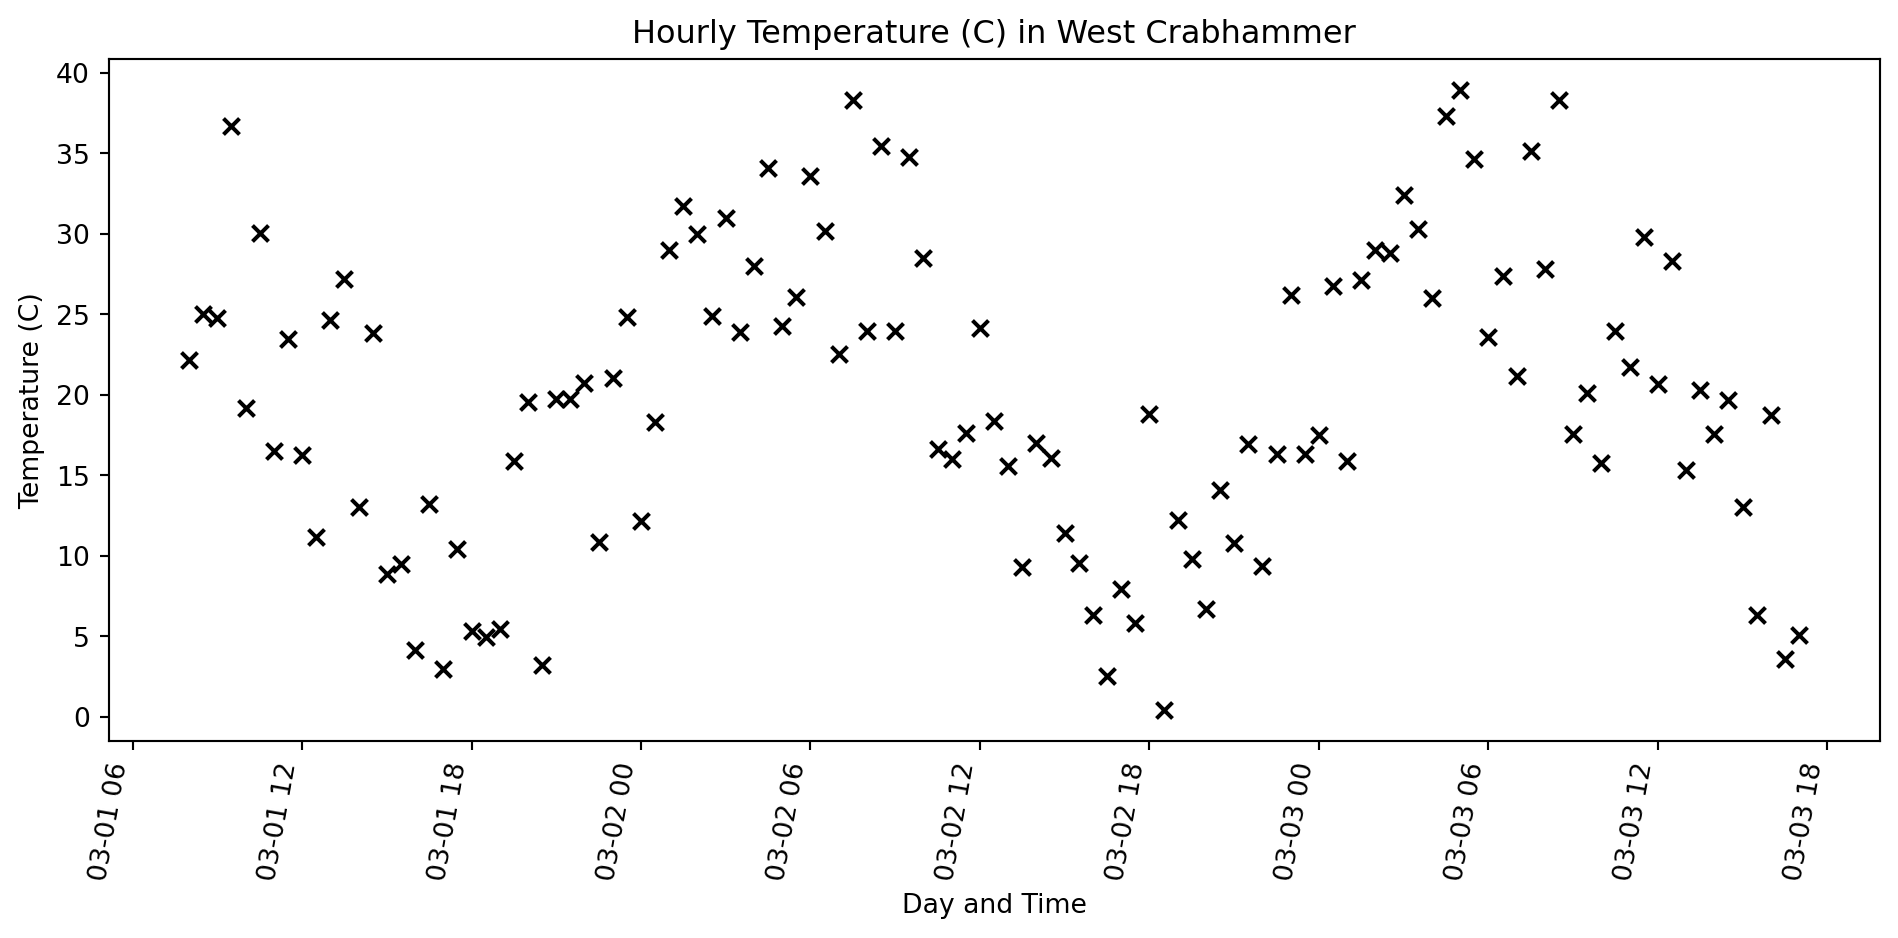
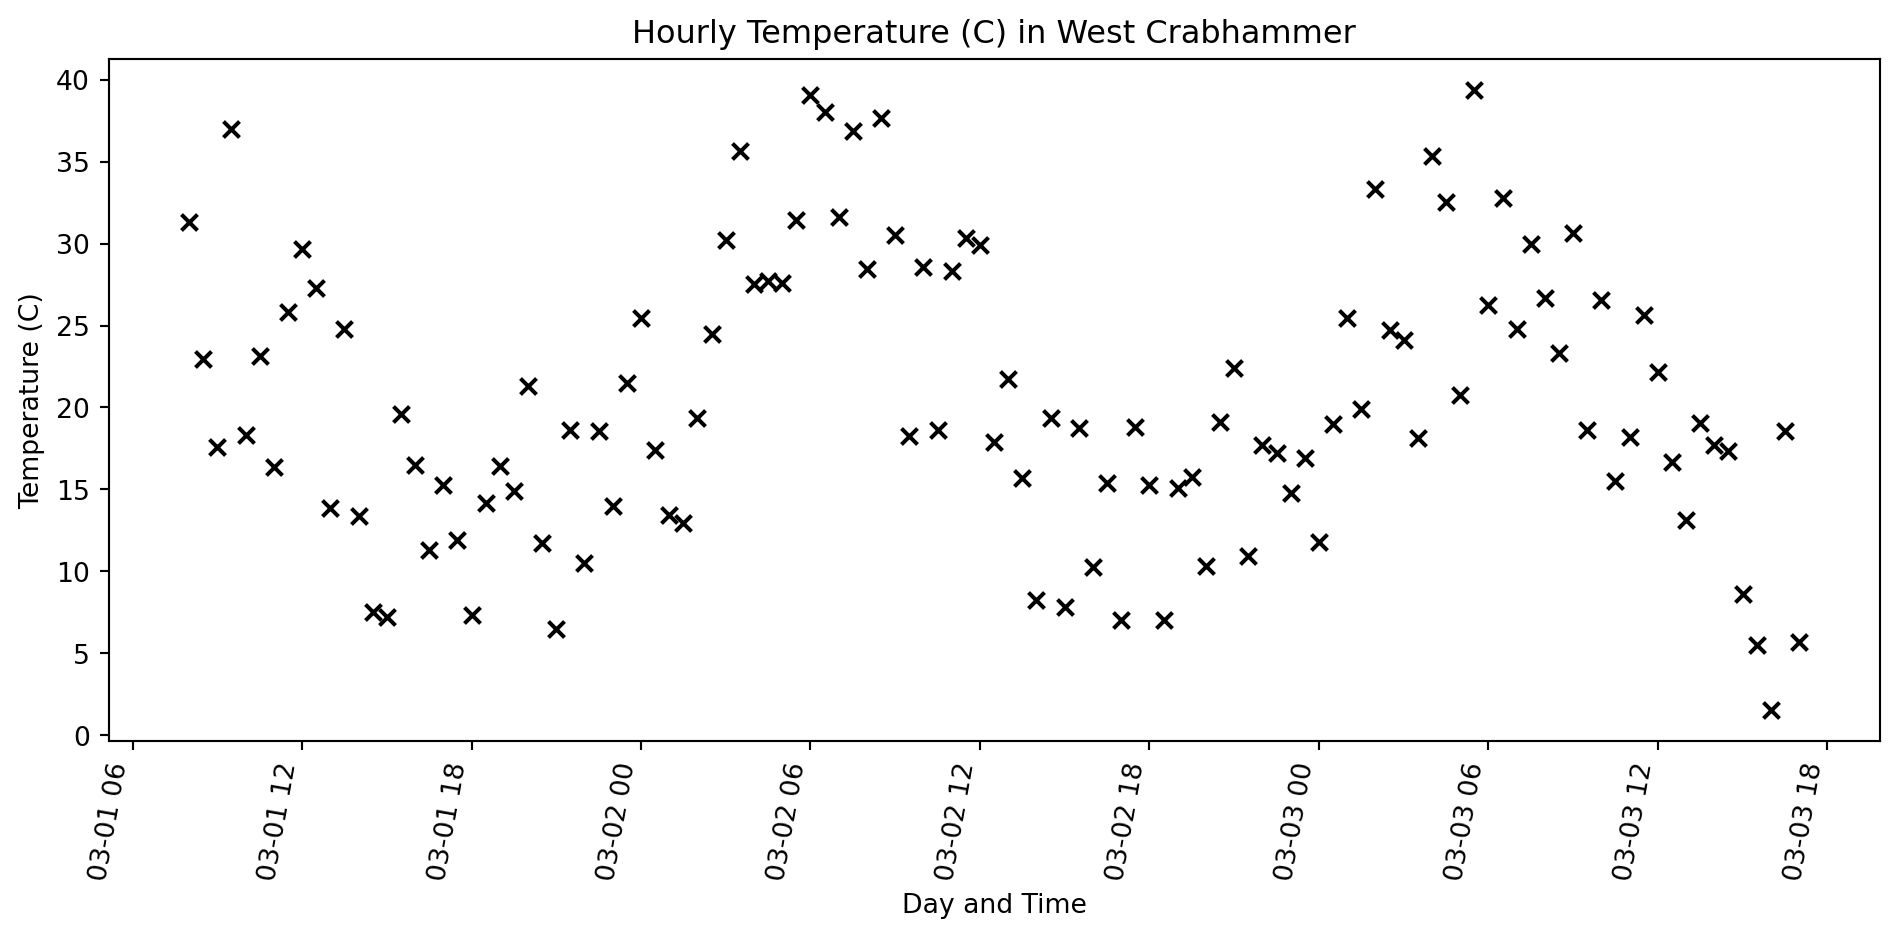
changed

diff --git a/docs/python_geospatial_basics.html b/docs/python_geospatial_basics.html
@@ -293,7 +293,7 @@
 <section id="basic-numbers" class="slide level2">
 <h2>Basic Numbers</h2>
 <p>Floats and Ints don’t do anything all that surprising</p>
-<div id="f9ef00de" class="cell columns column-output-location" data-execution_count="1">
+<div id="b2d3a6a0" class="cell columns column-output-location" data-execution_count="1">
 <div class="column">
 <div class="sourceCode cell-code" id="cb5"><pre class="sourceCode numberSource python number-lines code-with-copy"><code class="sourceCode python"><span id="cb5-1"><a></a>a <span class="op">=</span> <span class="dv">2</span> <span class="op">+</span> <span class="dv">2</span></span>
 <span id="cb5-2"><a></a>b <span class="op">=</span> <span class="fl">2.0</span> <span class="op">+</span> <span class="fl">2.0</span></span>
@@ -320,7 +320,7 @@ but 5 // 4 is 1</code></pre>
 <section id="sequences" class="slide level2">
 <h2>Sequences</h2>
 <p>Lists, tuples, and strings ae all sequences</p>
-<div id="6b4aee5c" class="cell columns column-output-location" data-execution_count="2">
+<div id="8325d239" class="cell columns column-output-location" data-execution_count="2">
 <div class="column">
 <div class="sourceCode cell-code" id="cb7"><pre class="sourceCode numberSource python number-lines code-with-copy"><code class="sourceCode python"><span id="cb7-1"><a></a><span class="co"># a list</span></span>
 <span id="cb7-2"><a></a>a_list <span class="op">=</span> [<span class="dv">1</span>, <span class="dv">2</span>, <span class="dv">3</span>, <span class="dv">4</span>, <span class="dv">5</span>, <span class="dv">6</span>, <span class="dv">7</span>, <span class="dv">8</span>, <span class="dv">9</span>]</span>
@@ -367,7 +367,7 @@ neushorn?</code></pre>
 </section>
 <section id="dictionaries" class="slide level2">
 <h2>Dictionaries</h2>
-<div id="d372ac6c" class="cell columns column-output-location" data-execution_count="3">
+<div id="218a4e12" class="cell columns column-output-location" data-execution_count="3">
 <div class="column">
 <div class="sourceCode cell-code" id="cb9"><pre class="sourceCode numberSource python number-lines code-with-copy"><code class="sourceCode python"><span id="cb9-1"><a></a>pets <span class="op">=</span> {<span class="st">'honden'</span>: <span class="dv">26</span>, <span class="st">'katten'</span>: <span class="dv">100</span>}</span>
 <span id="cb9-2"><a></a></span>
@@ -386,7 +386,7 @@ neushorn?</code></pre>
 </section>
 <section id="iterating" class="slide level2">
 <h2>Iterating</h2>
-<div id="aa64cc53" class="cell columns column-output-location" data-execution_count="4">
+<div id="63a83ed4" class="cell columns column-output-location" data-execution_count="4">
 <div class="column">
 <div class="sourceCode cell-code" id="cb11"><pre class="sourceCode numberSource python number-lines code-with-copy"><code class="sourceCode python"><span id="cb11-1"><a></a>a <span class="op">=</span> [<span class="dv">1</span>, <span class="dv">2</span>, <span class="dv">3</span>, <span class="dv">4</span>, <span class="dv">5</span>, <span class="dv">6</span>, <span class="dv">7</span>, <span class="dv">8</span>, <span class="dv">9</span>]</span>
 <span id="cb11-2"><a></a></span>
@@ -414,7 +414,7 @@ is the same as
 </section>
 <section id="pandas-dataframe" class="slide level2 scrollable">
 <h2>Pandas DataFrame</h2>
-<div id="040d699c" class="cell columns column-output-location" data-execution_count="5">
+<div id="77fd069c" class="cell columns column-output-location" data-execution_count="5">
 <div class="column">
 <div class="sourceCode cell-code" id="cb13"><pre class="sourceCode numberSource python number-lines code-with-copy"><code class="sourceCode python"><span id="cb13-1"><a></a><span class="im">from</span> datetime <span class="im">import</span> datetime, timedelta</span>
 <span id="cb13-2"><a></a><span class="im">from</span> random <span class="im">import</span> uniform</span>
@@ -477,27 +477,27 @@ is the same as
 <tr class="odd">
 <td data-quarto-table-cell-role="th">0</td>
 <td>2025-03-01 08:00:00</td>
-<td>22.162996</td>
+<td>31.300941</td>
 </tr>
 <tr class="even">
 <td data-quarto-table-cell-role="th">1</td>
 <td>2025-03-01 08:30:00</td>
-<td>25.002013</td>
+<td>22.962214</td>
 </tr>
 <tr class="odd">
 <td data-quarto-table-cell-role="th">2</td>
 <td>2025-03-01 09:00:00</td>
-<td>24.747566</td>
+<td>17.617272</td>
 </tr>
 <tr class="even">
 <td data-quarto-table-cell-role="th">3</td>
 <td>2025-03-01 09:30:00</td>
-<td>36.695996</td>
+<td>36.965691</td>
 </tr>
 <tr class="odd">
 <td data-quarto-table-cell-role="th">4</td>
 <td>2025-03-01 10:00:00</td>
-<td>19.155692</td>
+<td>18.307981</td>
 </tr>
 </tbody>
 </table>
@@ -508,7 +508,7 @@ is the same as
 </section>
 <section id="pandas-dataframe-cont." class="slide level2 scrollable">
 <h2>Pandas DataFrame Cont.</h2>
-<div id="a1860493" class="cell columns column-output-location" data-execution_count="6">
+<div id="017a2ce3" class="cell columns column-output-location" data-execution_count="6">
 <div class="column">
 <div class="sourceCode cell-code" id="cb14"><pre class="sourceCode numberSource python number-lines code-with-copy"><code class="sourceCode python"><span id="cb14-1"><a></a>fig, ax <span class="op">=</span> plt.subplots()</span>
 <span id="cb14-2"><a></a></span>
@@ -537,17 +537,17 @@ is the same as
 </div>
 </div>
 </div></div>
-<div id="5c10bc5f" class="cell columns column-output-location" data-execution_count="7">
+<div id="c1db82f4" class="cell columns column-output-location" data-execution_count="7">
 <div class="column">
 <div class="sourceCode cell-code" id="cb15"><pre class="sourceCode numberSource python number-lines code-with-copy"><code class="sourceCode python"><span id="cb15-1"><a></a><span class="co"># get the mean temperature over the timeseries</span></span>
 <span id="cb15-2"><a></a>df[<span class="st">'T (C)'</span>].mean()</span></code><button title="Copy to Clipboard" class="code-copy-button"><i class="bi"></i></button></pre></div>
 </div><div class="column">
 <div class="cell-output cell-output-display" data-execution_count="7">
-<pre><code>np.float64(19.87929588968658)</code></pre>
+<pre><code>np.float64(20.425421630974235)</code></pre>
 </div>
 </div></div>
 <p>When there are no spaces in a column name you can access the column as an attribute of the datafame.</p>
-<div id="b76c7cf7" class="cell columns column-output-location" data-execution_count="8">
+<div id="ed277395" class="cell columns column-output-location" data-execution_count="8">
 <div class="column">
 <div class="sourceCode cell-code" id="cb17"><pre class="sourceCode numberSource python number-lines code-with-copy"><code class="sourceCode python"><span id="cb17-1"><a></a><span class="co"># get the number of time stamps in the date_time column</span></span>
 <span id="cb17-2"><a></a>df.date_time.count()</span></code><button title="Copy to Clipboard" class="code-copy-button"><i class="bi"></i></button></pre></div>
@@ -561,7 +561,8 @@ is the same as
 <section id="homework" class="slide level2 smaller scrollable">
 <h2>Homework</h2>
 <p>If you are choosing Python as you language in this course (and what we have covered today is not a peace of cake for you already), create a jupyter notebook and do the following:</p>
-<p>::: + Download the results from the class survey from <a href="https://docs.google.com/spreadsheets/d/17qg3d2N1WmE3cIoz5SGpP2AGesVNmaZTwu4ljIRii4U/edit?usp=sharing">here</a> as a csv file. + Read the csv into a Pandas DataFrame. + The headers are a mess! Change the column names to be reasonable. + Remember, if you want to be able to access the data as an attribute, the column names need to not have spaces in them. For example you can get a column like this <code>df.aarvark_count   + Hint: _columns_ is a mutable attribute of the dataframe so</code>df.columns = some_list_of_the_correct_length` will assign new column names. :::</p>
+<p>:::<br>
++ Download the results from the class survey from <a href="https://docs.google.com/spreadsheets/d/17qg3d2N1WmE3cIoz5SGpP2AGesVNmaZTwu4ljIRii4U/edit?usp=sharing">here</a> as a csv file. + Read the csv into a Pandas DataFrame. + The headers are a mess! Change the column names to be reasonable. + Remember, if you want to be able to access the data as an attribute, the column names need to not have spaces in them. For example you can get a column like this <code>df.aarvark_count   + Hint: _columns_ is a mutable attribute of the dataframe so</code>df.columns = some_list_of_the_correct_length` will assign new column names. :::</p>
 <p>If you are only going the R route, do the above, but in R. (Hints Below.)</p>
 <p>::: + data &lt;- read.csv(“my_data.csv”) :::</p>
 </section></section>
@@ -602,7 +603,7 @@ is the same as
 </section>
 <section id="polygon" class="slide level2">
 <h2>Polygon</h2>
-<div id="f1233b9e" class="cell columns column-output-location" data-execution_count="9">
+<div id="f3889880" class="cell columns column-output-location" data-execution_count="9">
 <div class="column">
 <div class="sourceCode cell-code" id="cb19"><pre class="sourceCode numberSource python number-lines code-with-copy"><code class="sourceCode python"><span id="cb19-1"><a></a><span class="im">from</span> shapely <span class="im">import</span> Polygon</span>
 <span id="cb19-2"><a></a></span>
@@ -629,7 +630,7 @@ is the same as
 <section id="reading-files" class="slide level2">
 <h2>Reading Files</h2>
 <p>Here we will read a geojson using the <code>read_file</code> method.</p>
-<div id="e280f3a4" class="cell columns column-output-location" data-execution_count="10">
+<div id="c222546b" class="cell columns column-output-location" data-execution_count="10">
 <div class="column">
 <div class="sourceCode cell-code" id="cb21"><pre class="sourceCode numberSource python number-lines code-with-copy"><code class="sourceCode python"><span id="cb21-1"><a></a><span class="im">from</span> pathlib <span class="im">import</span> Path</span>
 <span id="cb21-2"><a></a><span class="im">import</span> geopandas <span class="im">as</span> gpd</span>
